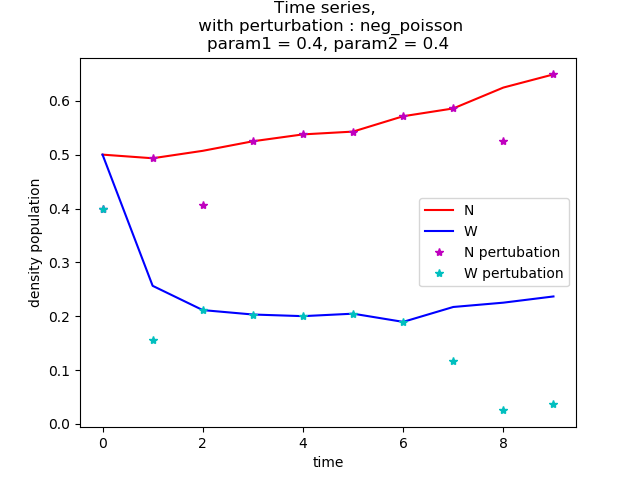
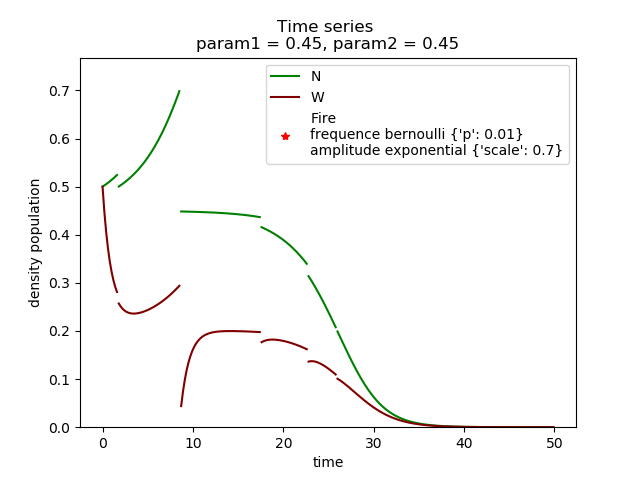
solving with the strategy solve in normal time and stop when fire

diff --git a/objet.py b/objet.py
@@ -82,8 +82,8 @@ class Ode:
     def F_allee_effect(self, Y, t):
         """ F for model 1"""
         n, w = Y
-        Nder = self.g*n*(1-n/self.K)*(n/self.A-1) + self.Perturbation[0, int(t/self.dt)]
-        Wder = self.m*n - self.d*w + self.Perturbation[1, int(t/self.dt)]
+        Nder = self.g*n*(1-n/self.K)*(n/self.A-1)
+        Wder = self.m*n - self.d*w
         return [Nder, Wder]
     
 
@@ -96,27 +96,16 @@ class Ode:
         n, w = Y
 #        print("\ndt", self.dt)
 #        print("t", t)
-        if(int(t/self.dt) >= len(self.Perturbation)):
-            print("Problem for solving with perturbation (~line 80)")
-            Nder = n*(1-n)*(n-self.param1)
-            Wder = self.param2*n - w
-        else:           
-            Nder = n*(1-n)*(n-self.param1) + self.Perturbation[0, int(t/self.dt)]
-            Wder = self.param2*n - w + self.Perturbation[1, int(t/self.dt)]
+        Nder = n*(1-n)*(n-self.param1)
+        Wder = self.param2*n - w
         return [Nder, Wder]
 
-#    def F_model_1(self, Y, t):
-#        """ F for model 1"""
-#        n, w = Y
-#        Nder = self.g*n*(1-n/self.K)*(n/self.A-1) + self.Perturbation[int(t/self.dt), 0]
-#        Wder = self.m*n - self.d*w + self.Perturbation[int(t/self.dt), 1]
-#        return [Nder, Wder]
     
     def F_verhulst(self, Y, t):
         """ verhulst """
         n, w = Y
-        Nder = self.g*n*(1-n/self.K) + self.Perturbation[0, int(t/self.dt)]
-        Wder = self.m*n - self.d*w + self.Perturbation[1, int(t/self.dt)]
+        Nder = self.g*n*(1-n/self.K)
+        Wder = self.m*n - self.d*w
         return [Nder, Wder]
                 
 
@@ -158,26 +147,64 @@ class Ode:
         return Y
 
 
-    def solve(self, solveur = None):
-        if(solveur != None):
-            self.solveur = solveur
+    def solve(self, Init, Time):
+#        if(solveur != None): # allow to change to solveur when we call solve
+#            self.solveur = solveur
+            
         dic_model = {"allee_effect" : self.F_allee_effect, 
                      "allee_effect_adi" : self.F_allee_effect_adi,
                      "verhulst" : self.F_verhulst}
 #        dic_solveur = {"odeint" : odeint,
 #                       "euler_ex" : self.euler_ex}
+
         if(self.solveur == "odeint"):
-            Y = odeint(dic_model[self.model], self.Init, self.Time)
+            Y = odeint(dic_model[self.model], Init, Time)
         elif(self.solveur == "euler_ex"):
-            Y = self.euler_ex(dic_model[self.model], self.Init, self.Time)
+            Y = self.euler_ex(dic_model[self.model], Init, Time)
         else:
             print("(line ", cf.f_lineno, ") The choice of the solveur is not correct")
 #        ### check if the density remain positive
 # =============================================================================
 #         
 # =============================================================================
-        self.N, self.W = np.array(Y).transpose()
-        return self.N, self.W
+#        self.N, self.W = np.array(Y).transpose()
+#        return self.N, self.W
+        return Y
+    
+    
+    def solve_by_part(self):
+        """solve the ode between two fires"""
+#        Y = self.solve(self.Init, self.Time)
+#        self.N, self.W = np.array(Y).transpose()
+#        return self.N, self.W
+        Y = np.zeros((self.NbreIte, 2))
+        c = 0           # compteur
+        Init = self.Init
+        print("Init", Init)
+        while(c < len(self.FireB)):
+            if(self.FireB[c] == False):
+                c_old = c
+                Sequence = [self.Time[c]]
+                c += 1               
+                while(c < len(self.FireB) and self.FireB[c] == False):
+                    Sequence += [self.Time[c]]
+                    c+=1
+                Y[c_old:c] = self.solve(Init, Sequence) 
+#                if(c < len(FireB)): ### they are a fire !!
+#                    Y[c] = Y[c-1] #+ self.Perturbation[:,c]
+#                    Init = Y[c]
+            else:
+                # fire !
+                print("Fire !", c)
+#                Y[c-1] = Y[c] + self.Perturbation[:,c]
+#                Init = Y[c-1]
+                Init = Y[c-1] + self.Perturbation[:,c]
+                Y[c] = np.array([np.NAN, np.NAN])
+                c += 1
+        Y = np.array(Y).transpose()
+        self.N, self.W = Y
+        return Y
+        
     
     def plot_time_series(self):
         
@@ -186,11 +213,12 @@ class Ode:
         plt.plot(self.Time, self.N, color = "g", label="N")
         plt.plot(self.Time, self.W, color = "maroon", label="W")
 #        plt.plot(self.Time[abs(O.Perturbation) > 1e-4], self.N[abs(O.Perturbation) > 1e-4], "*r", label = "Fire\nfrequence "+self.law_freq+" ("+str(0)+")\namplitude "+self.law_amplitude+"("+str(0)+")")
-        plt.plot(self.Time[abs(O.Perturbation[0,:]) > 1e-4], self.N[abs(O.Perturbation[0,:]) > 1e-4], "*r", label = "Fire"+"\nfrequence "+self.Fire["frequence"]+" "+str(self.Fire["param_freq"])+"\namplitude "+self.Fire["amplitude"]+" "+str(self.Fire["param_amplitude"]))
+        before_fire = self.FireB
+        plt.plot(self.Time[abs(O.Perturbation[0,:]) > 1e-4], self.N[abs(O.Perturbation[0,:]) > 1e-4], "*r", label = "Fire"+"\nfrequence "+self.Fire["frequence"]+" "+str(self.Fire["param_freq"])+"\namplitude "+self.Fire["amplitude"]+" "+str(self.Fire["param_amplitude"])))
         plt.plot(self.Time[abs(O.Perturbation[0,:]) > 1e-4], self.W[abs(O.Perturbation[0,:]) > 1e-4], "*r")
         plt.legend()
         plt.xlabel("time")
-        mmax = max([np.max(self.N), np.max(self.W)])
+        mmax = max([max(self.N), max(self.W)])
         plt.ylim(0, 1.1*mmax)
         plt.ylabel("density population")
 #        plt.title("Time series, \n with perturbation : "+self.law+", with parameters : "+str(self.Param_pertubation))
@@ -247,6 +275,7 @@ class Ode:
 
     def perturbation(self):       
         # frequence fire
+#        print(self.law_freq, self.law_amplitude)
         if(self.law_freq == "bernoulli"):
             Freq_fire = np.random.binomial(1, 0.01, size = self.NbreIte)
         else:
@@ -254,8 +283,9 @@ class Ode:
         
         # amplitude fire
         if(self.law_amplitude == "exponential"):
-            Ampl_fire = - np.random.exponential(scale = 0.7, size = self.NbreIte)
+            Ampl_fire = - np.random.exponential(scale = 0.07, size = self.NbreIte)
             self.Perturbation =  np.array(2*[Freq_fire * Ampl_fire])
+#            print(Freq_fire)
         elif(self.law_amplitude == "gamma"):
             Ampl_fire = - np.random.gamma(shape = 0.5, scale= 1, size = self.NbreIte)
             self.Perturbation =  np.array(2*[Freq_fire * Ampl_fire])
@@ -272,15 +302,17 @@ class Ode:
             Ampl_fire = - abs(np.random.multivariate_normal(mean, cov))
             self.Perturbation =  Freq_fire * Ampl_fire        
         else:
-            print("The law of the fire amplitude is not known")        
+            print("The law of the fire amplitude is not known")  
+        self.FireB = abs(self.Perturbation[0,:]) > 1e-5
         return self.Perturbation            
 
         
 # =============================================================================
 
-O = Ode(model = "allee_effect_adi", Init=[0.5, 0.5], Param_phy= [0.45, 0.45], finalTime = 100)
+O = Ode(model = "allee_effect_adi", Init=[0.5, 0.5], Param_phy= [0.45, 0.45], finalTime = 50)
 #O.perturbation("neg_poisson", param=[0.2, 0.1])
-O.solve("euler_ex")
+O.perturbation()
+O.solve_by_part()
 O.plot_time_series()
 #O.plot_phase_portrait(Xwindow = [0, 2], Ywindow = [0, 2])
 

diff --git a/test.py b/test.py
@@ -24,4 +24,9 @@ Fire.items()
 print("Fire"
       +"\nfrequence "+Fire["frequence"]+" "+str(Fire["param_freq"])
       +"\namplitude "+Fire["amplitude"]+" "+str(Param_ampl)) 
+
+
+#### utilise pour le feux
       
+plt.plot([1,2,3,4,5], [2,3,None,5,6])
+plt.show()
